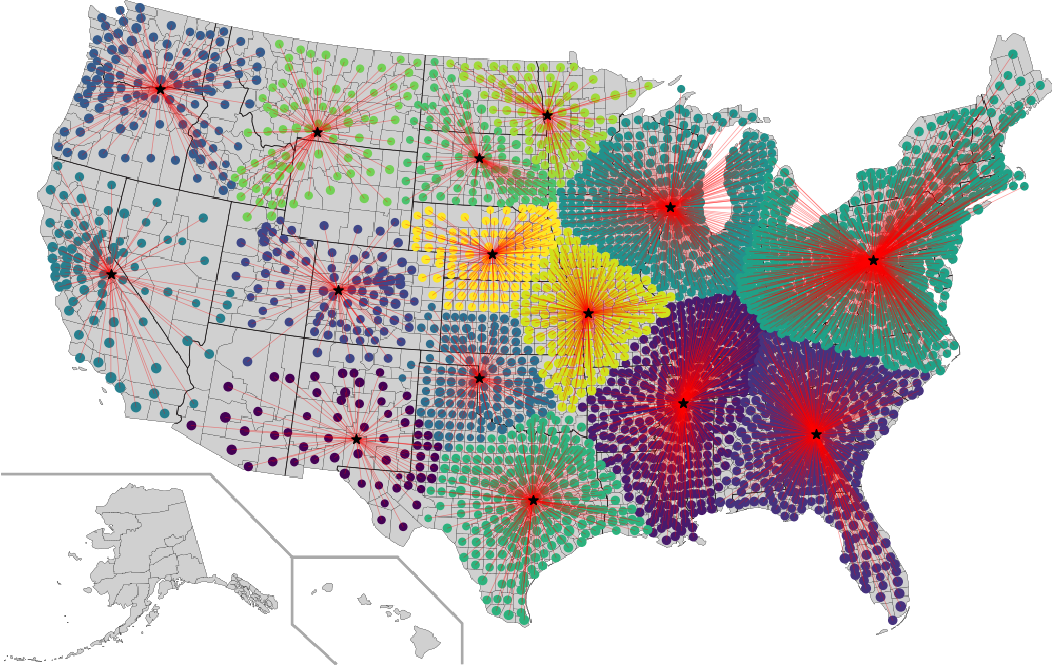
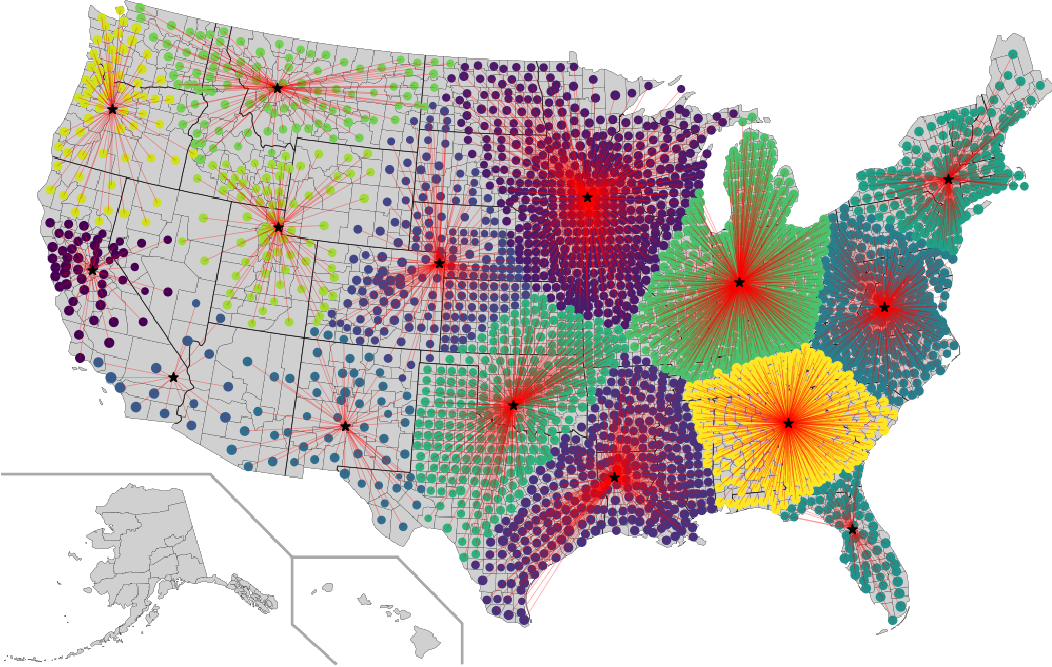
Fix oredered kmeans

diff --git a/Lab6/Main.py b/Lab6/Main.py
@@ -5,11 +5,13 @@ from matplotlib import pyplot as plt
 
 from Lab6.Algorithms import *
 
-with open("unifiedCancerData/unifiedCancerData_290.csv", "r") as csv_file:
+with open("unifiedCancerData/unifiedCancerData_111.csv", "r") as csv_file:
     reader = csv.reader(csv_file, delimiter=",")
     points = list()
     for row in reader:
         points.append(County(int(row[0]), float(row[1]), float(row[2]), int(row[3]), float(row[4])))
+
+    points = list(reversed(sorted(points, key=lambda p: p.population())))
 
     # On-screen, things will be displayed at 80dpi regardless of what we set here
     # This is effectively the dpi for the saved figure. We need to specify it,
@@ -39,10 +41,11 @@ with open("unifiedCancerData/unifiedCancerData_290.csv", "r") as csv_file:
 
     # CHOOSE THE ALGORITHM HERE
     # res = hierarchical_clustering(points, 9)
-    res = k_means_clustering(sorted(points, key=lambda p: p.population()), 9, 5)
+    res = k_means_clustering(points, 9, 5)
 
     map_img = plt.imread("map/USA_Counties.png")
     im_plot = plt.imshow(map_img)
+
     xs = list()
     ys = list()
     ps = list()
@@ -65,7 +68,7 @@ with open("unifiedCancerData/unifiedCancerData_290.csv", "r") as csv_file:
     for c in res:
         for e in c.get_elements():
             plt.plot((c.get_centroid().x(), e.x()), (c.get_centroid().y(), e.y()),
-                     linestyle='-', c='#FF0000CC', linewidth=0.5)
+                     linestyle='-', c='#FF0000', linewidth=0.5)
     plt.scatter(x=xs, y=ys, s=ps, c=colours_list)
     plt.scatter(x=list(map(lambda c_i: c_i.get_centroid().x(), res)),
                 y=list(map(lambda c_i: c_i.get_centroid().y(), res)),
@@ -73,8 +76,8 @@ with open("unifiedCancerData/unifiedCancerData_290.csv", "r") as csv_file:
 
     plt.show()
 
-    hierarchical_errors = list(map(lambda cluster: cluster.get_error(), hierarchical_clustering(points, 16)))
-    k_means_errors = list(map(lambda cluster: cluster.get_error(), k_means_clustering(points, 16, 5)))
-
-    print("DIST HIERARCHICAL:", sum(hierarchical_errors))
-    print("DIST K MEANS:", sum(k_means_errors))
+    # hierarchical_errors = list(map(lambda cluster: cluster.get_error(), hierarchical_clustering(points, 9)))
+    # k_means_errors = list(map(lambda cluster: cluster.get_error(), k_means_clustering(points, 9, 5)))
+    #
+    # print("DIST HIERARCHICAL:", sum(hierarchical_errors))
+    # print("DIST K MEANS:", sum(k_means_errors))
